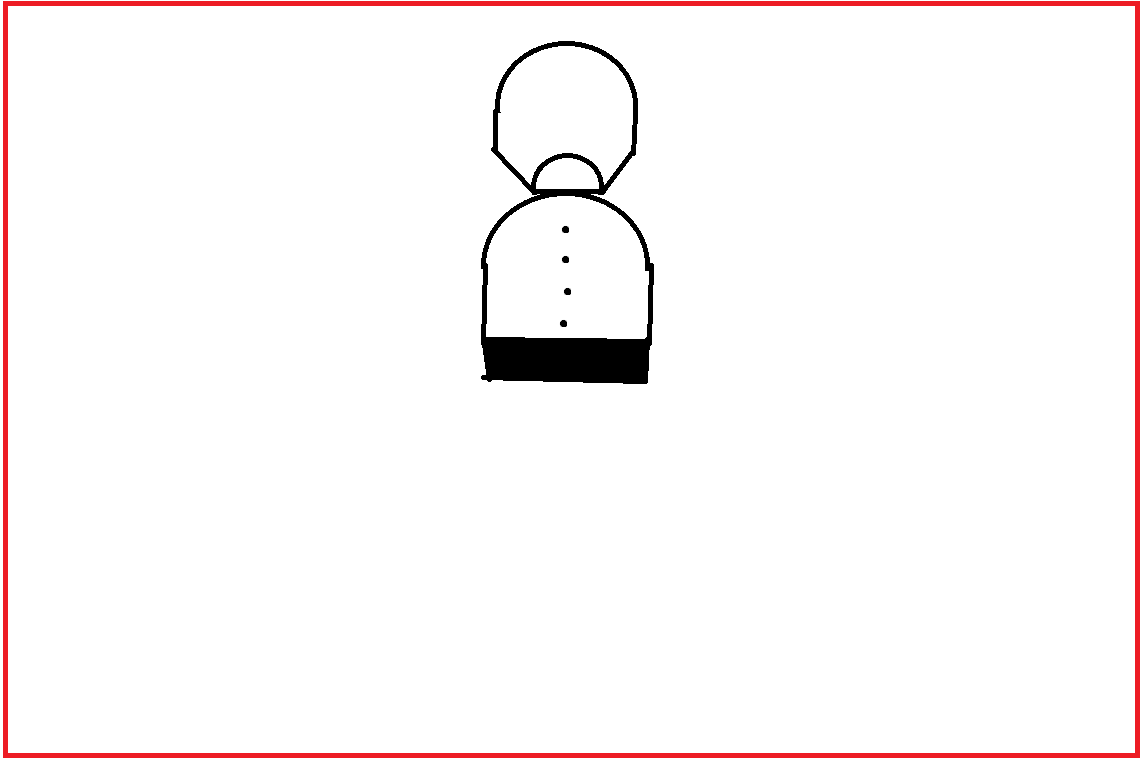
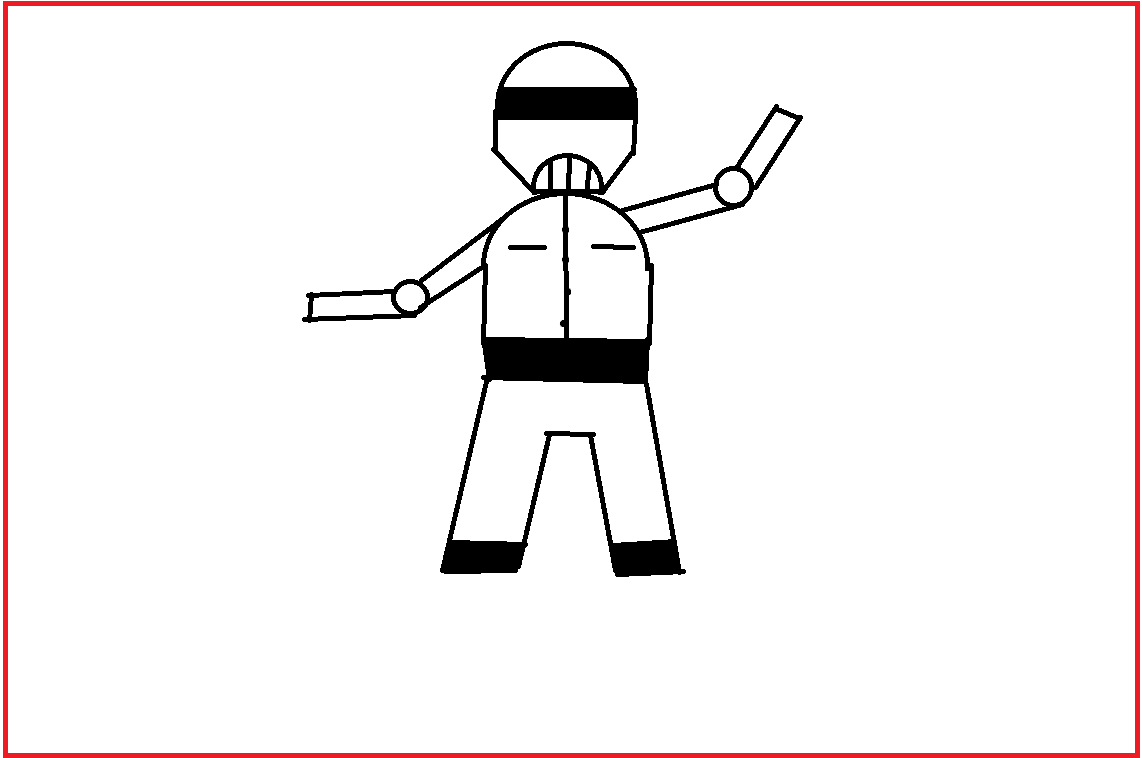
not ready

diff --git a/lego.js b/lego.js
@@ -17,7 +17,7 @@ function joonistaKiiver(){
 	t.stroke();
 	t.fillStyle="black";
 	t.fillRect(130, 25,40 ,7);
-	t.fillStyle="white";
+	
 	
 	joonistaKiiver2();
 
@@ -113,11 +113,22 @@ function joonistaKaed(){
 	t.moveTo(85, 75);
 	t.lineTo(85, 83);
 
+	// parem kinnas
+
+	t.moveTo(202, 28);
+	t.lineTo(204, 24);
+
+	// vasak kinnas
+
+	t.moveTo(85, 79);
+	t.lineTo(80,79);
 
 
 	t.stroke();
 	kyynarnukk1();
 	kyynarnukk2();
+	kinnas1();
+	kinnas2();
 }
 
 function kyynarnukk1(){
@@ -141,6 +152,28 @@ function kyynarnukk2(){
 
 	t.stroke();
 
+}
+
+function kinnas1(){
+
+	var t=document.getElementById("tahvel").getContext("2d");
+
+	t.beginPath();
+	
+	t.arc(204, 20, 4, 0, Math.PI, false);
+
+	t.stroke();
+}
+
+function kinnas2(){
+
+	var t=document.getElementById("tahvel").getContext("2d");
+
+	t.beginPath();
+	
+	t.arc(76, 79, 4, 0, 90, 180);
+
+	t.stroke();
 }
 
 
